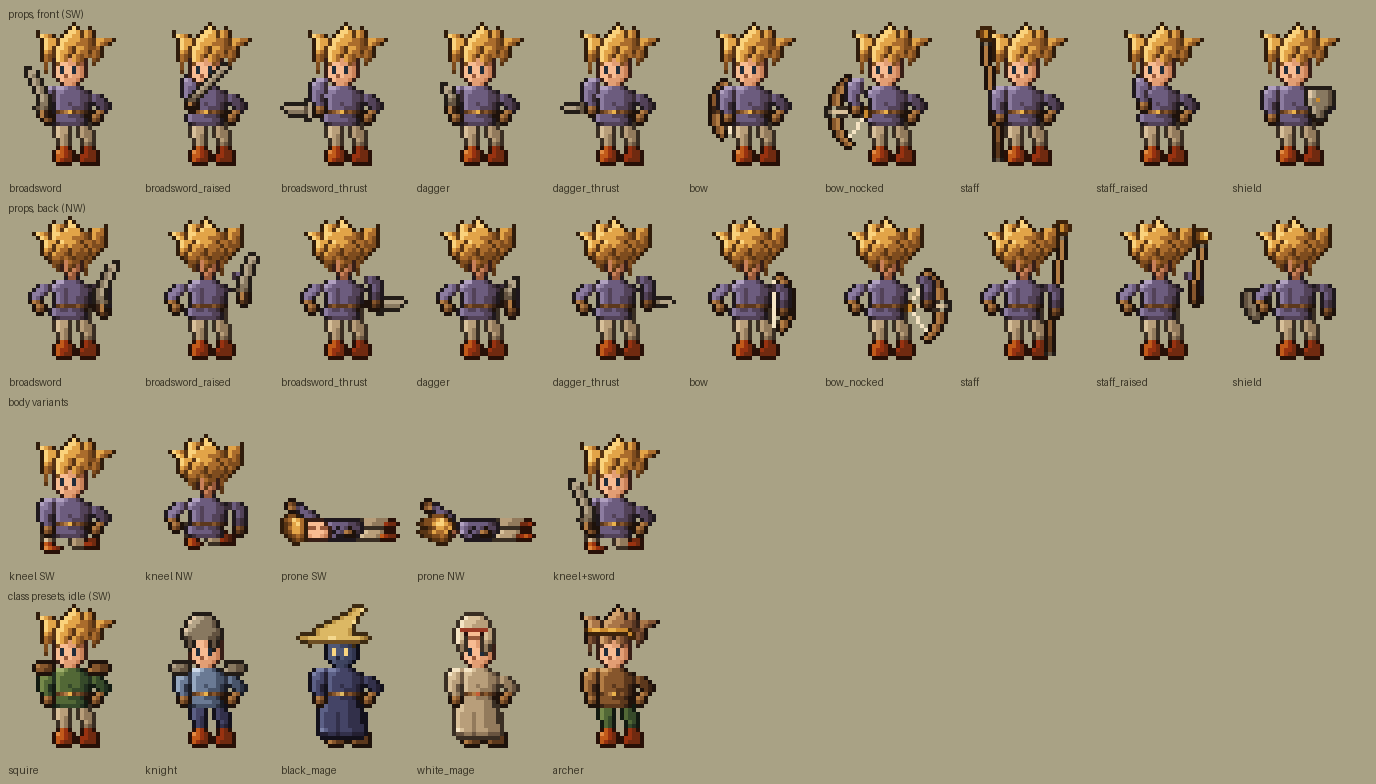
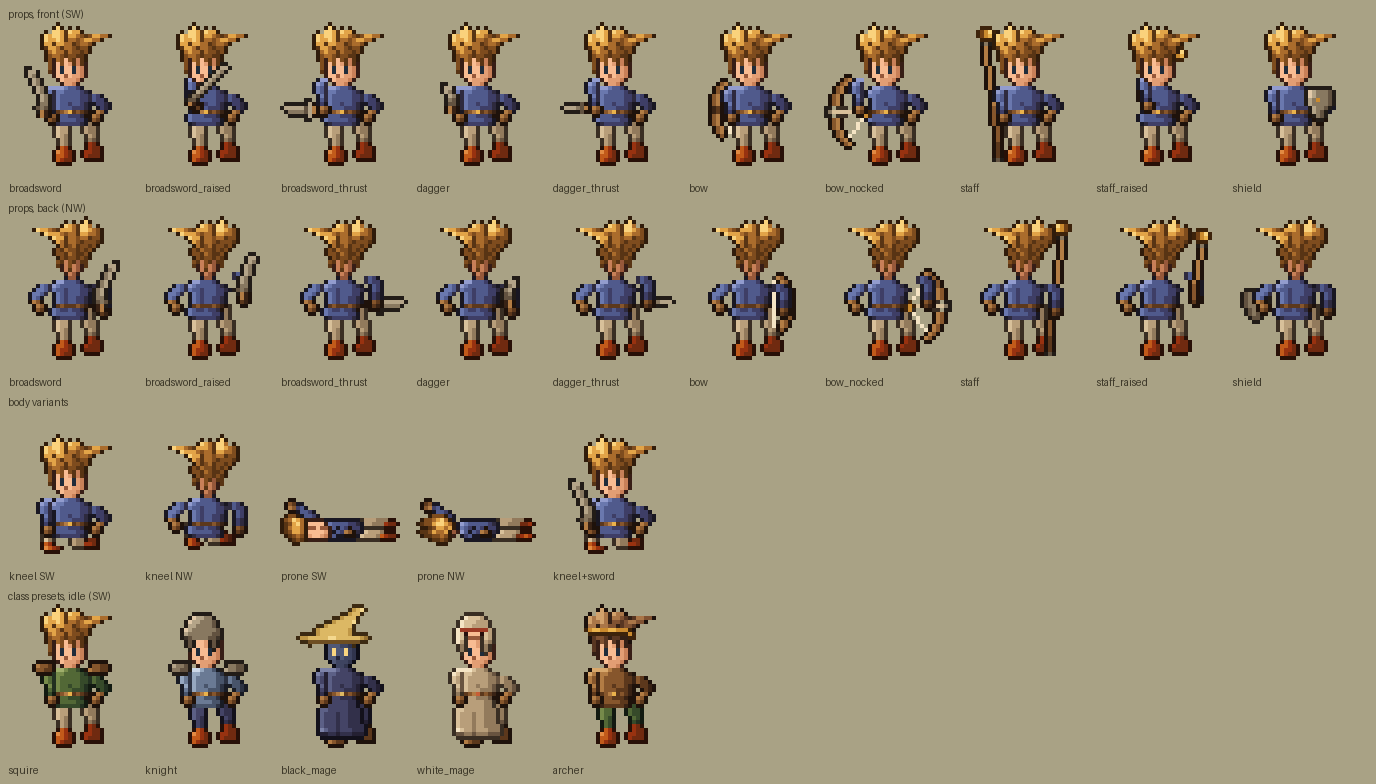
Merge polish and infra rounds; add animated GIF preview helper
Merges the Round 1 worktrees: saturated warm-blue tunic and unified
hair mass from the polish track; weapon props, kneel/prone body
variants, class presets, and overlay hooks from the infra track.
make_gif.py renders any animation sheet into a looping 4x preview GIF.

Claude-Session: https://claude.ai/code/session_016NrdnBjWDk4MeLoS3YwAx8

diff --git a/tools/sprites/make_gif.py b/tools/sprites/make_gif.py
@@ -1,0 +1,49 @@
+"""Render out/sprites/<anim>.png into an animated 4x preview GIF.
+
+Usage: python3 tools/sprites/make_gif.py <anim>
+
+Reads the raw sheet (4 facing rows x N frame columns of FRAME_W x FRAME_H),
+lays the 4 facings side by side per frame, upscales 4x nearest-neighbor,
+and writes out/preview/<anim>_4x.gif looping at the animation's FRAME_MS.
+"""
+import importlib
+import sys
+from pathlib import Path
+
+from PIL import Image
+
+ROOT = Path(__file__).resolve().parents[2]
+sys.path.insert(0, str(ROOT / "tools" / "sprites"))
+
+FRAME_W, FRAME_H = 32, 40
+FACINGS = 4
+SCALE = 4
+GAP = 8
+BG = (139, 133, 108, 255)  # matches preview contact sheets
+
+
+def main(name: str) -> None:
+    mod = importlib.import_module(f"anims.{name}")
+    frame_ms = getattr(mod, "FRAME_MS", 180)
+
+    sheet = Image.open(ROOT / "out" / "sprites" / f"{name}.png").convert("RGBA")
+    n_frames = sheet.width // FRAME_W
+
+    frames = []
+    for f in range(n_frames):
+        w = FACINGS * FRAME_W + (FACINGS - 1) * GAP // SCALE
+        canvas = Image.new("RGBA", (w, FRAME_H), BG)
+        for row in range(FACINGS):
+            cell = sheet.crop((f * FRAME_W, row * FRAME_H, (f + 1) * FRAME_W, (row + 1) * FRAME_H))
+            canvas.alpha_composite(cell, (row * (FRAME_W + GAP // SCALE), 0))
+        canvas = canvas.resize((canvas.width * SCALE, canvas.height * SCALE), Image.NEAREST)
+        frames.append(canvas.convert("P", palette=Image.ADAPTIVE))
+
+    durations = frame_ms if isinstance(frame_ms, int) else list(frame_ms)
+    out = ROOT / "out" / "preview" / f"{name}_4x.gif"
+    frames[0].save(out, save_all=True, append_images=frames[1:], duration=durations, loop=0, disposal=2)
+    print(f"wrote {out} ({n_frames} frames)")
+
+
+if __name__ == "__main__":
+    main(sys.argv[1])
